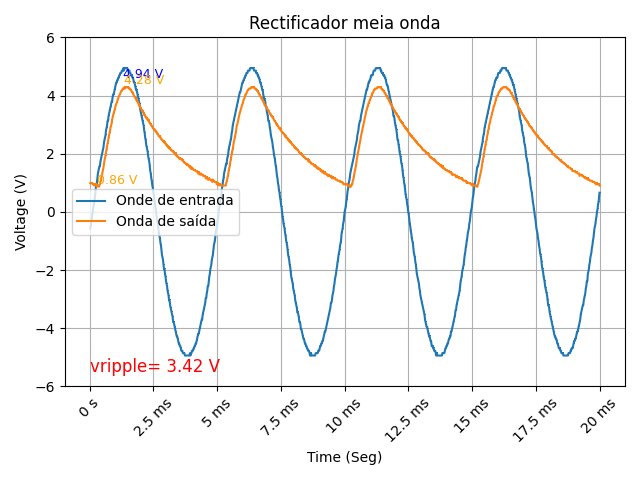
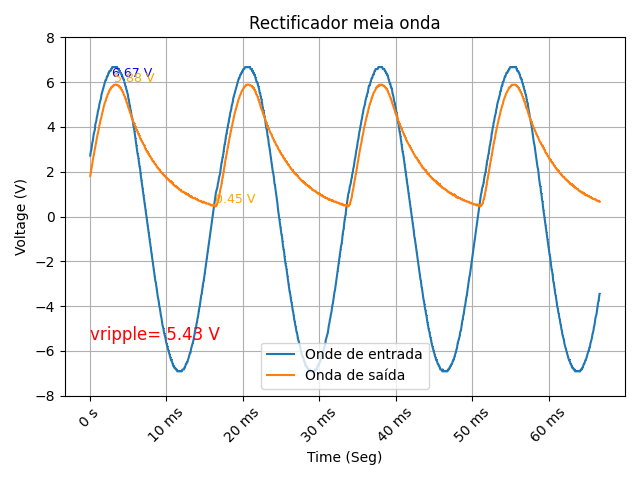
FUNCA

diff --git a/webserver/website/templates/ondacompleta.html b/webserver/website/templates/ondacompleta.html
@@ -59,8 +59,8 @@ Remember to set the width: -->
 <div style="display: inline-block; width: 300px">
       <select id="selectC" disabled>
         <option value="0">Seleccionar Condensador [&microF]:</option>
-        <option value="1">100</option>
-        <option value="2">4.7</option>
+        <option value="1">4.7</option>
+        <option value="2">100</option>
       </select>
     </div>
 
@@ -141,7 +141,7 @@ Remember to set the width: -->
       event.preventDefault(); // Evite que o link seja seguido
 
       // Caminho da imagem que você deseja exibir
-      var imagePath = "../images/onda_completa.png";
+      var imagePath = "../images/onda-completa.png";
 
       // Crie um elemento de imagem
       var image = document.createElement("img");

diff --git a/webserver/website/templates/meiaonda.html b/webserver/website/templates/meiaonda.html
@@ -48,8 +48,8 @@ Remember to set the width: -->
     <div style="display: inline-block; width: 300px">
       <select id="selectC" disabled>
         <option value="0">Seleccionar Condensador [&microF]:</option>
-        <option value="1">100</option>
-        <option value="2">4.7</option>
+        <option value="1">4.7</option>
+        <option value="2">100</option>
       </select>
     </div>
 

diff --git a/ctrl_hardware/mixed_signal_oscilloscope.py b/ctrl_hardware/mixed_signal_oscilloscope.py
@@ -53,7 +53,7 @@ def config_instruments_HalfWave(frequency:float, Resistance:int, Capacitor:int):
         # Waveform Configuration - Configuração do gerador de sinal
         #############################
         waveform_function = Waveform.SINE
-        amplitude = 10.0      # 10V
+        amplitude = 14      # 10V
         dc_offset = 0.0       # 0V
         duty_cycle = 50.0     # 50% (Used for Square and Triangle waveforms)
 
@@ -200,7 +200,7 @@ def plot_graphic(analog_data, number_of_analog_samples_acquired, frequency, grap
     plt.gca().xaxis.set_major_formatter(formatter0)
 
     # Define os limites do eixo y para -5 a 5
-    plt.ylim(-6, 6)
+    plt.ylim(-8, 8)
 
     # Adiciona a legenda ao gráfico
     plt.legend(loc='best')
@@ -240,50 +240,69 @@ def config_mso_ondacompleta(Resistance:int, Capacitor:int):
         current_limit = 0.5 
         ps.enable_all_outputs(True)
         ps.configure_voltage_output(channel, voltage_level, current_limit)
-        # Configura os relés para a medição
-        
-        #if onda_entrada == True: # A função foi chamada para medir a onda de entrada
-        #    configRelays.config_relays_vin() # Independentemente do seu estado, coloca os relés a zero  
-        #onda_saida == True: # A função foi chamada para medir a onda de saída
-        configRelays.config_relays_ondacompleta(Resistance, Capacitor) # Configura os relés para a medição
-        
+            
+        configRelays.config_relays_vin() # Independentemente do seu estado, coloca os relés a zero 
+                
         mso = virtualbench.acquire_mixed_signal_oscilloscope()
 
         # Configure the acquisition using auto setup
         mso.auto_setup()
-        # cANAL 1 - DESACTIVADO PAA PODER LER SÓ O CANAL 2	
-        #mso.configure_analog_channel('VB8012-30A210F/mso/1', False, 10, 1, 1, 0)
-
+ 
         ##################################
         # AO QUE PARECE PARA QUE DESTA FORMA A LEITURA SEJA FEITA CORRETAMENTE
         # É NECESSÁRIO QUE O CANAL 1 ESTEJA LIGADO DIRETAMENTE AO CANAL DOIS
         # E DESACTIVADO COM A LINHA ACIMA
         ##################################
-
-        # Query the configuration that was chosen to properly interpret the data.
-        # POVAVELMENTE ISTO PODE SALTAR FORA - PARTE-SE DUM PRINCÍPIO QUE AMBAS AS PONTAS
-        # ESTÃO SEMPRE LIGADAS AO VIRTUAL BENCH
-        sample_rate, acquisition_time, pretrigger_time, sampling_mode = mso.query_timing()
-        channels = mso.query_enabled_analog_channels()
-        channels_enabled, number_of_channels = virtualbench.collapse_channel_string(channels)
-        print("channels_enabled: ", channels_enabled)
+                 
+        # Read the data by first querying how big the data needs to be, allocating the memory, and finally performing the read.
+        # cANAL 1 - DESACTIVADO PAA PODER LER SÓ O CANAL 2	
+        mso.configure_analog_channel('VB8012-30A210F/mso/1', False, 5, 1, 1, 0)
         # Start the acquisition.  Auto triggering is enabled to catch a misconfigured trigger condition.
         mso.run()
-
-        # Read the data by first querying how big the data needs to be, allocating the memory, and finally performing the read.
-        analog_data, analog_data_stride, analog_t0, digital_data, digital_timestamps, digital_t0, trigger_timestamp, trigger_reason = mso.read_analog_digital_u64()
-                   
-        analog_data_size = len(analog_data)
-        #number_of_analog_samples_acquired = analog_data_size / analog_data_stride
-        #print("Número de amostras: ", number_of_analog_samples_acquired)
-
-        # Definir taxa de amostragem manualmente
-        sample_rate = 10000  # Hz (ex: 10 kHz)
-        x_values_increment = 1 / sample_rate  # 0.0001 s = 100 µs por amostra
         
-        plot_graphic_ondacompleta(analog_data, x_values_increment)
+        analog_data_in, analog_data_stride, _, *_ = mso.read_analog_digital_u64()
+        analog_data_size = len(analog_data_in)
+        number_of_analog_samples_acquired = analog_data_size / analog_data_stride
+        freq_detectada = estimar_frequencia(number_of_analog_samples_acquired)
+                
+        #print("Dados adquiridos do canal 1: ", analog_data_in)        
+        mso.stop() # Para a aquisição antes de ler o segundo canal
+             
+        # ==== MEDIÇÃO DA SAÍDA ====
+        configRelays.config_relays_ondacompleta(Resistance, Capacitor) # Configura os relés para a medição
+        #mso.auto_setup() # Reconfigura o MSO para a medição da saída
+        mso.configure_analog_channel('VB8012-30A210F/mso/1', False, 5, 1, 1, 0)
+        mso.run() # Reinicia a aquisição para o segundo canal
+        analog_data_out, _, *_ = mso.read_analog_digital_u64()
+        mso.stop() # Para a aquisição
+
+        # ==== CÁLCULO DE RIPPLE ====
+        max_saida = np.max(analog_data_out)
+        min_saida = np.min(analog_data_out)
+        vripple = max_saida - min_saida
+        vripple_text = EngFormatter(unit='V').format_data_short(round(vripple, 2))
+        freq_text = EngFormatter(unit='Hz').format_data_short(120)
         
-        #print_digital_data(digital_data, digital_timestamps, 10)
+         # Define o EngFormatter para o eixo x
+        formatter0 = EngFormatter(unit='ms')
+        plt.gca().xaxis.set_major_formatter(formatter0)
+        
+        # ==== PLOT ====
+       
+        plt.figure(figsize=(10, 5))
+        plt.plot(freq_detectada, analog_data_in, label="Onda de entrada", linestyle='-', color='blue', marker=None)
+        plt.plot(freq_detectada, analog_data_out, label="Onda rectificada", linestyle='-', color='orange')
+        plt.title("Rectificação Onda Completa")
+        plt.text(0, 2, f'Ripple: {vripple_text}', fontsize=12, color='red')
+        plt.text(0, 1.5, f'f = {freq_text}', fontsize=12, color='red')
+        plt.xlabel("Tempo (ms)")
+        plt.ylabel("Tensão (V)")
+        plt.legend()
+        plt.ylim(-2, 7)
+        plt.grid(True)
+        plt.tight_layout()
+        plt.savefig("webserver/website/static/images/onda-completa.png")
+
         ps.enable_all_outputs(False) # Desliga a fonte de alimentação
         ps.release()
         mso.release()
@@ -291,6 +310,12 @@ def config_mso_ondacompleta(Resistance:int, Capacitor:int):
         print("Error/Warning %d occurred\n%s" % (e.status, e))
     finally:
         virtualbench.release()
+
+def estimar_frequencia(number_of_analog_samples_acquired):
+    increment = 1/(120*number_of_analog_samples_acquired)
+    x_values_increment = np.cumsum(np.full(int(number_of_analog_samples_acquired), increment)) 
+    x_values_increment = 5 * x_values_increment * 1000 # ms
+    return x_values_increment
 
 def plot_graphic_ondacompleta(analog_data, x_values_increment):
     # Seleciona os elementos pares da lista analog_data

diff --git a/ctrl_hardware/configRelays.py b/ctrl_hardware/configRelays.py
@@ -64,7 +64,6 @@ def config_relays_meiaonda (Resistance: int, Capacitance: int):
             config_Relays("0000000000000") #relés OBRIGATORIAMENTE desligados
         case 1, 1:
             # Resistência = 1KOhm e Capacitância = 1uF
-            #config_Relays("010101101") # Relés - K1...|K9 - R=1K e C=1uF
             config_Relays("1011010100000") # Relés - K1...|K9 - R=1K e C=1uF
 
         case 1, 2:
@@ -83,20 +82,20 @@ def config_relays_ondacompleta (Resistance: int, Capacitance: int):
     match Resistance, Capacitance:
         case 0, 0:
             # colocar os relés a zero
-            config_Relays("0000000000000") #relés OBRIGATORIAMENTE desligados
+            config_Relays("0000000000000")
         case 1, 1:
-            # Resistência = 1KOhm e Capacitância = 100uF
-            config_Relays("0100110100000") # Relés - K6 e K8 - R=1K e C=100uF
+            print(Resistance, Capacitance)
+            config_Relays("0100110100000") # Relés - K6 e K8 - R=1K e C=4.7uF
 
         case 1, 2:
-            # Resistência = 2.2KOhm e Capacitância = 4.7uF
-            config_Relays("0100110010000") # Relés - K6 e K9 - R=2.2K e C=4.7uF
+            print(Resistance, Capacitance)
+            config_Relays("0100110010000") # Relés - K6 e K9 - R=1K e C=100uF
         case 2, 1:
-            # Resistência = 2.2KOhm e Capacitância = 100uF
-            config_Relays("0100101100000") # Relés - K7 e K8 - R=2.2K e C=100uF
+            print(Resistance, Capacitance)
+            config_Relays("0100101100000") # Relés - K7 e K8 - R=2.2K e C=4.7uF
         case 2, 2:
-            # Resistência = 2.2KOhm e Capacitância = 4.7uF
-            config_Relays("0100101010000") # Relés - K7 e K9 - R=2.2K e C=4.7uF
+            print(Resistance, Capacitance)
+            config_Relays("0100101010000") # Relés - K7 e K9 - R=2.2K e C=100uF
         case _:
             print("ERROR: Resistence or Capacitance outside values")
 
@@ -131,7 +130,7 @@ def config_relays_PassFilter (Resistance: int, Capacitance: int, which_filter:st
                 print("ERROR: Resistence or Capacitance outside values")
 
 def config_relays_vin ():
-    config_Relays("0100100000000") # K12 Activo para ler vin
+    config_Relays("0100101000000") # K12 Activo para ler vin
   
 def config_Relays(stringValue: str):
     # Envia a string para o Raspberry Pi

diff --git a/webserver/website/views.py b/webserver/website/views.py
@@ -141,8 +141,6 @@ def config_ondacompleta():
                 
         #configRelays.config_relays_ondacompleta(0,0) # Não estão alimentados os relés, não há onda! BURRRRRRRRRRRRRO!!!
         #configRelays.config_relays_vin() # Por aqui não funciona
-                
-        print(Resistance, Capacitor)
         mixed_signal_oscilloscope.config_mso_ondacompleta(Resistance, Capacitor)
         time.sleep(1) # Verificar estes atrasos
                             
